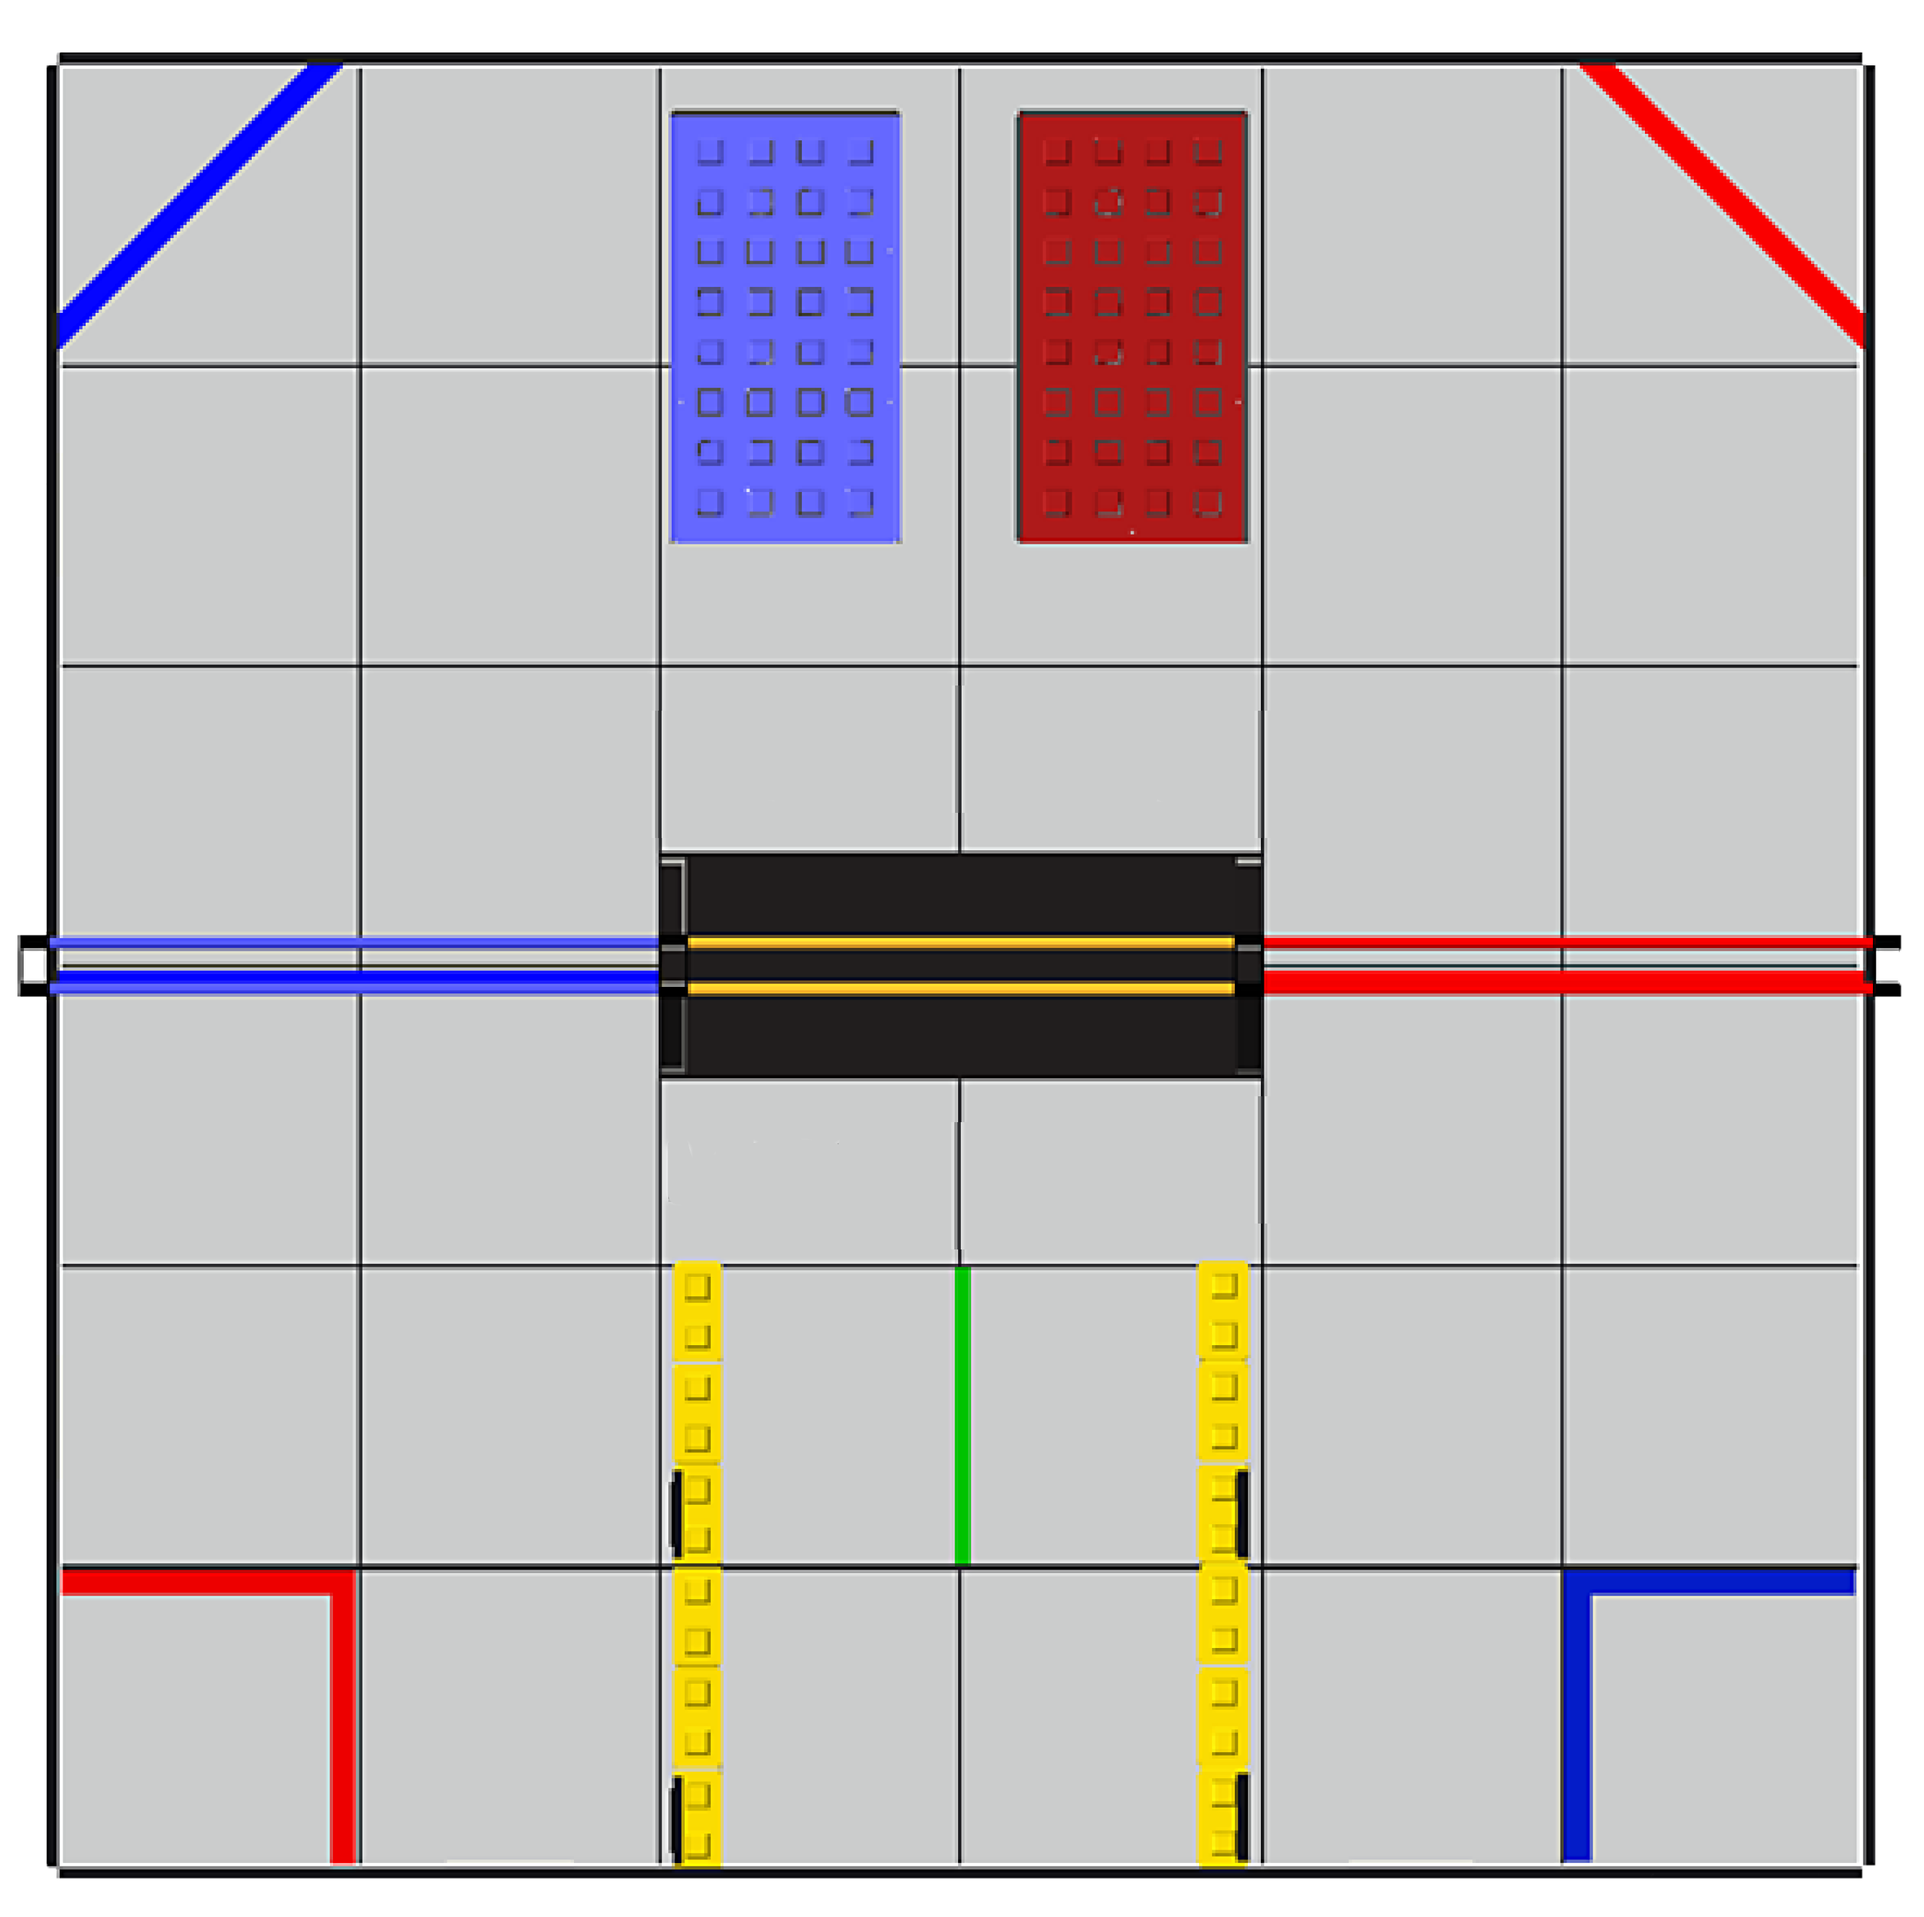
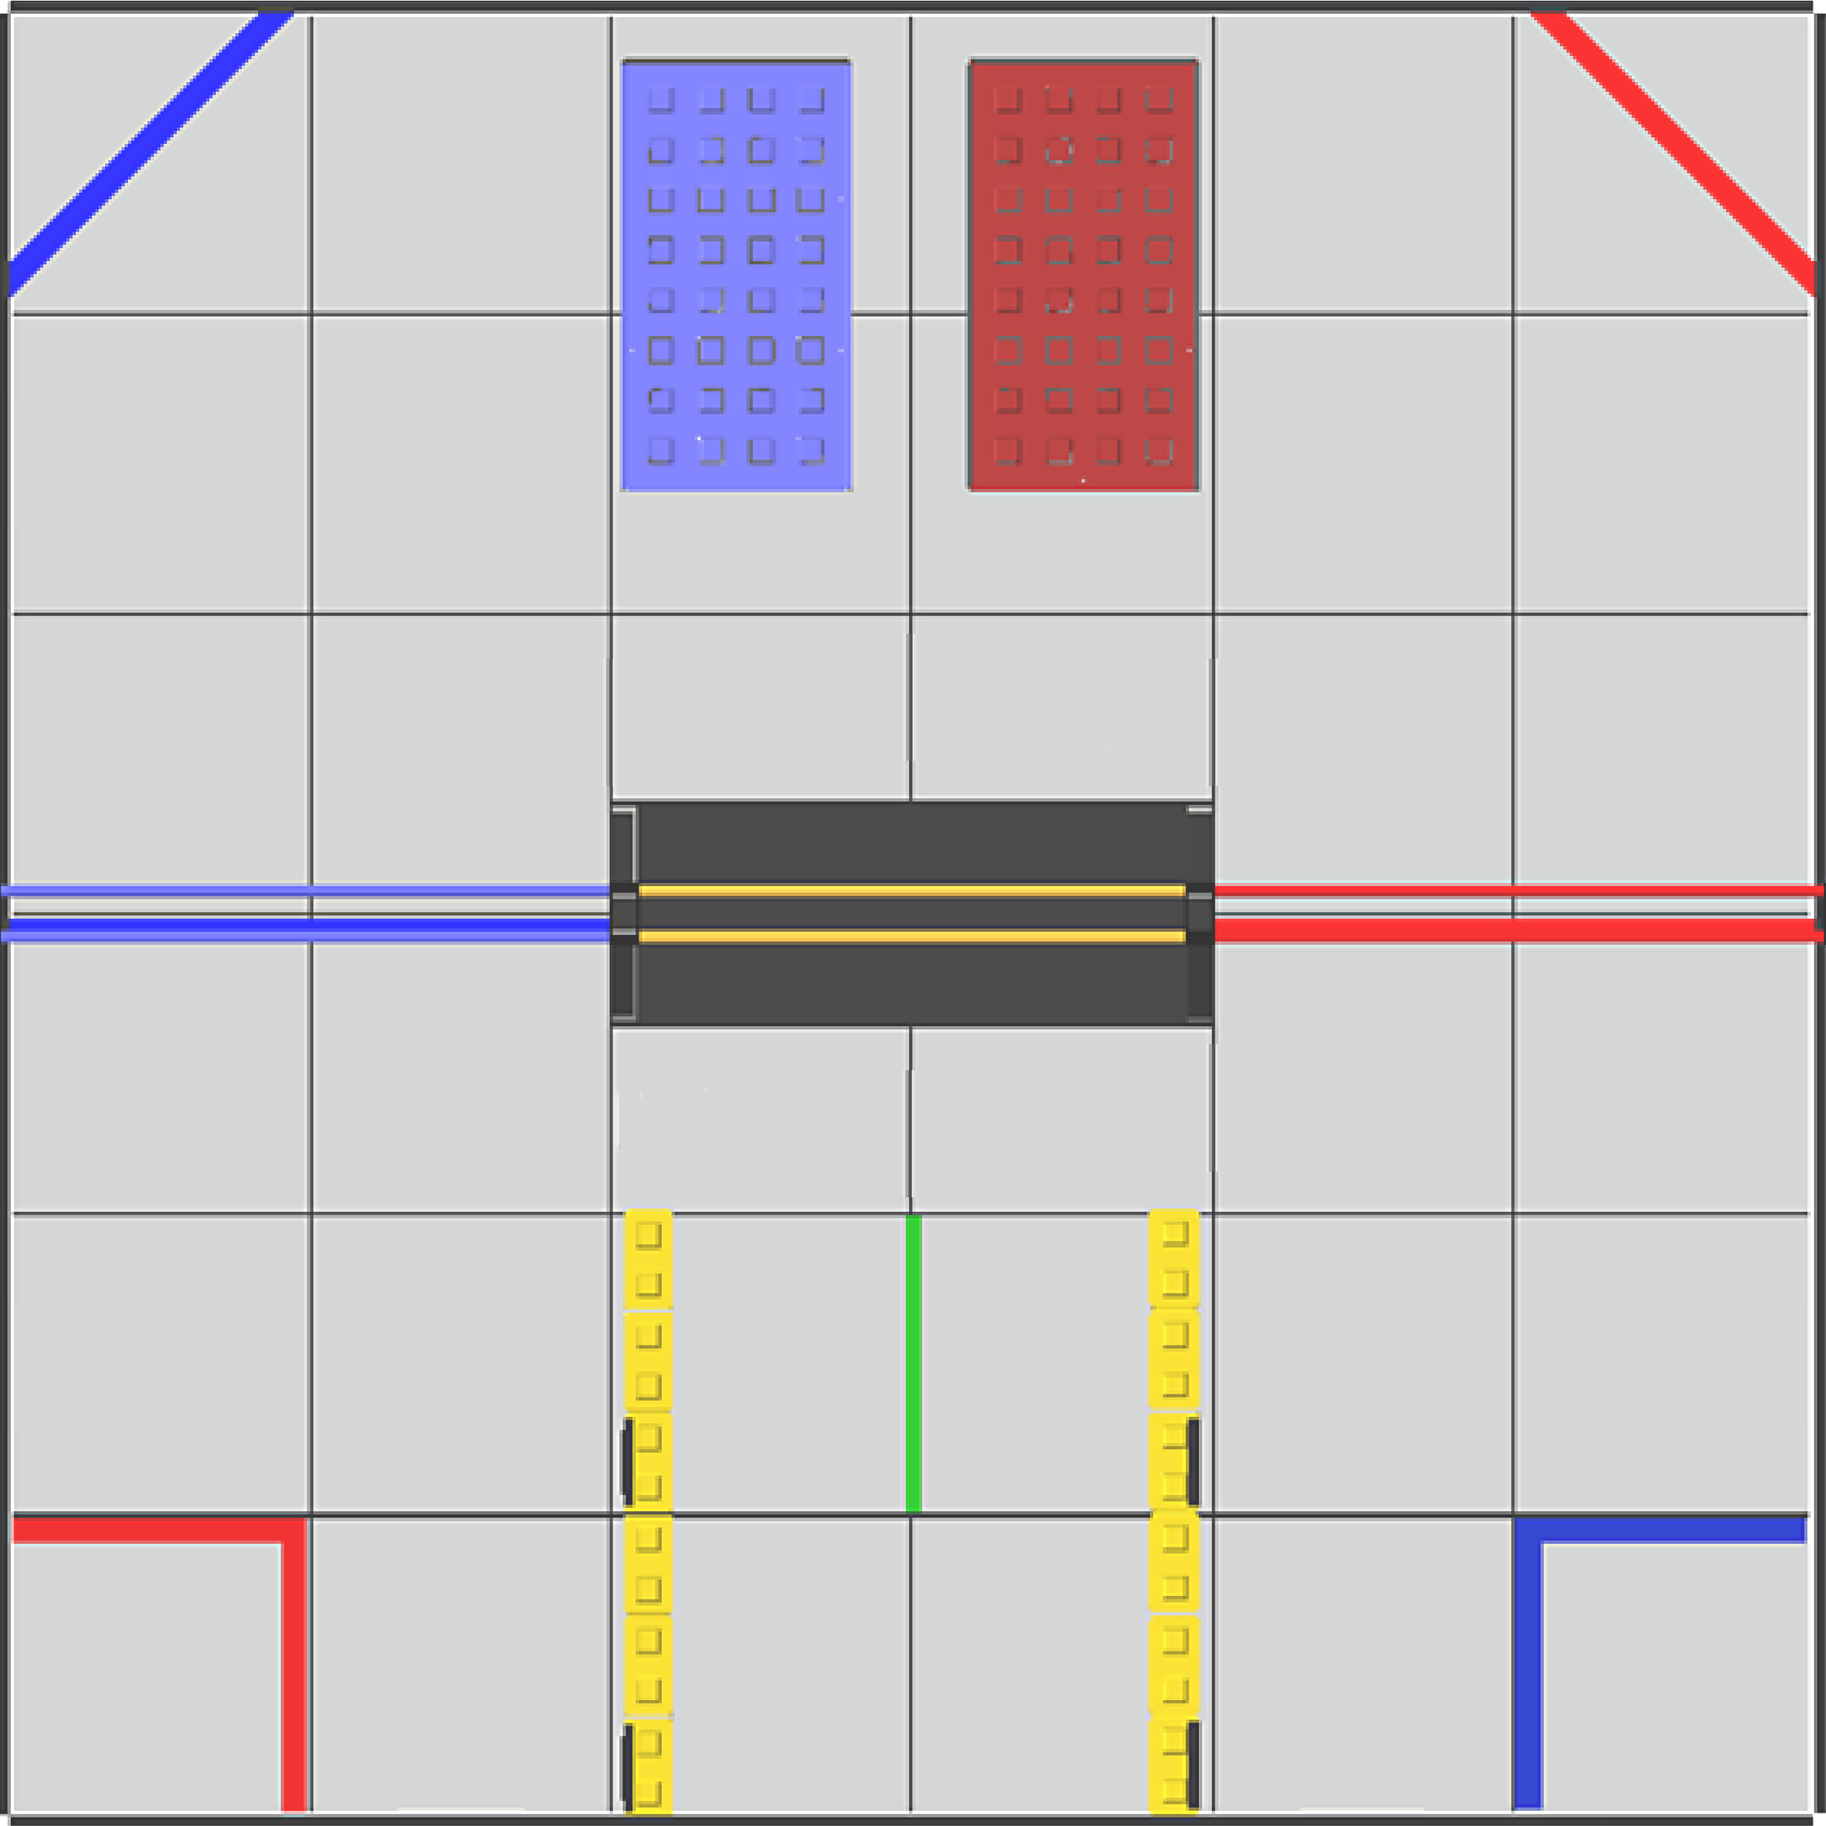
save

diff --git a/src/Components/Field/Field.css b/src/Components/Field/Field.css
@@ -5,7 +5,7 @@
     float: left;
     cursor: crosshair;
     background-color: black;
-    background-image: url('resources/field-2.png');
+    background-image: url('resources/field.png');
     background-size: 100% 100%;
     background-repeat: no-repeat;
 }
@@ -16,7 +16,7 @@
     float: left;
     cursor: crosshair;
     background-color: white;
-    background-image: url('resources/field-2.png');
+    background-image: url('resources/field.png');
     background-size: 100% 100%;
     background-repeat: no-repeat;
 }

diff --git a/src/Components/Field/Field.js b/src/Components/Field/Field.js
@@ -9,6 +9,9 @@ export default class Field extends React.Component {
             waypoints: new Immutable.List(),
             isDrawing: false,
             hover: false,
+            previousPointX:'',
+            previousPointY:'',
+            initalWaypointDrawn: false,
         };
 
         this.handleMouseDown = this.handleMouseDown.bind(this);
